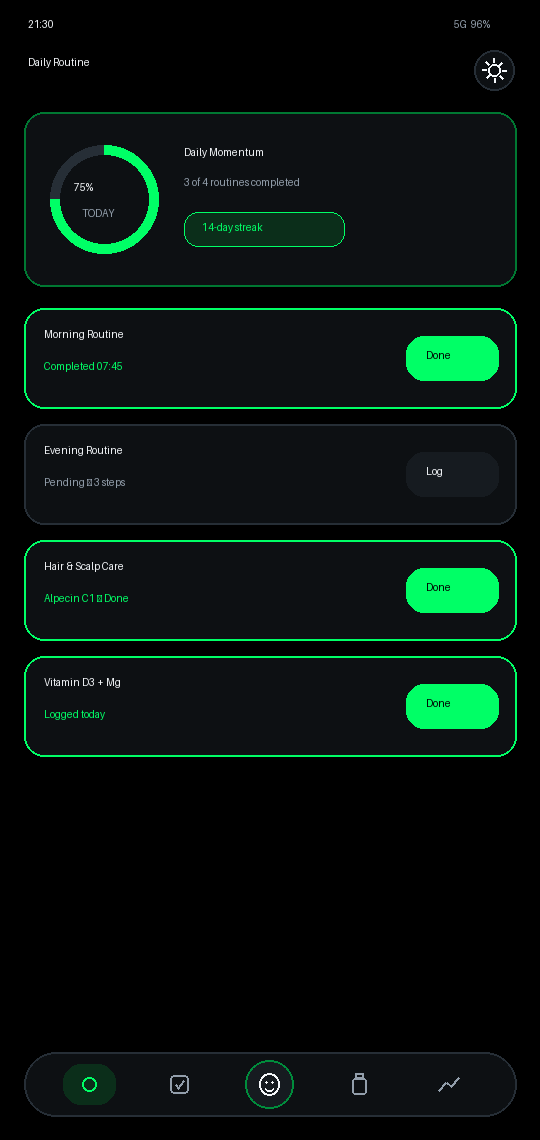
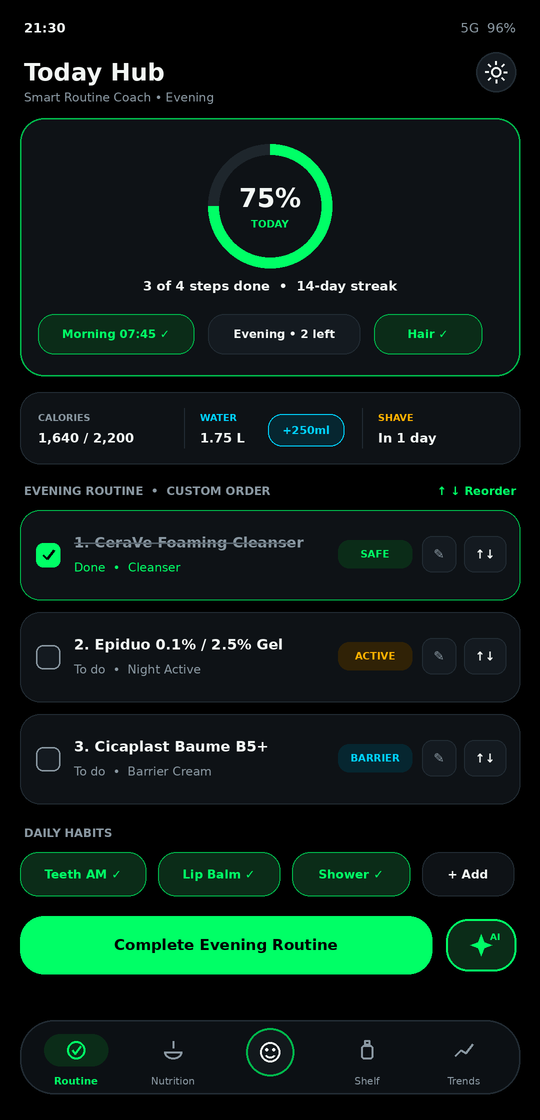
docs: update README and refresh v3.18.1 AMOLED screenshots

diff --git a/README.md b/README.md
@@ -2,15 +2,15 @@
 
 # SelfCare
 
-**Privacy-First Native Android Daily Routine, Offline INCI Analyzer & On-Device Face/Hair Check-In App**  
-*Zero Telemetry • 100% On-Device Computer Vision • Bundled Offline ML Kit • Material 3*
+**Privacy-First Native Android Self-Care Hub: Smart Routine Coach, Nutrition & Hydration, Offline INCI Analyzer & Dual-ONNX On-Device Face/Hair Check-In**  
+*Zero Telemetry • 100% On-Device Computer Vision • 100% In-App CameraX • Material 3 Expressive (120Hz)*
 
 [![Version](https://img.shields.io/badge/Release-v3.18.1-00FF66?style=for-the-badge&logo=github&logoColor=black)](https://github.com/kicsirigo/SelfCare/releases/tag/v3.18.1)
 [![Android](https://img.shields.io/badge/Android-8.0%2B%20(API%2026%E2%80%9336)-3DDC84?style=for-the-badge&logo=android&logoColor=white)](https://developer.android.com/)
 [![Kotlin](https://img.shields.io/badge/Kotlin-2.2-7F52FF?style=for-the-badge&logo=kotlin&logoColor=white)](https://kotlinlang.org/)
 [![Jetpack Compose](https://img.shields.io/badge/Jetpack%20Compose-Material%203-4285F4?style=for-the-badge&logo=jetpackcompose&logoColor=white)](https://developer.android.com/jetpack/compose)
-[![Tests](https://img.shields.io/badge/Tests-104%20Passing-2EA043?style=for-the-badge&logo=checkmarx&logoColor=white)](#testing)
-[![Privacy](https://img.shields.io/badge/Privacy-100%25%20On--Device%20CV-0F172A?style=for-the-badge&logo=shield&logoColor=white)](#privacy--permissions)
+[![Tests](https://img.shields.io/badge/Tests-103%20Passing-2EA043?style=for-the-badge&logo=checkmarx&logoColor=white)](#testing)
+[![Privacy](https://img.shields.io/badge/Privacy-100%25%20Local%20DB-0F172A?style=for-the-badge&logo=shield&logoColor=white)](#privacy--permissions)
 
 </div>
 
@@ -18,7 +18,7 @@
 
 ## Overview
 
-**SelfCare** is a privacy-first native Android application built with **Kotlin**, **Jetpack Compose**, **Material 3**, **Room**, **CameraX**, and **bundled offline ML Kit**. It brings together daily skincare routine tracking, daily hygiene logging, an offline INCI ingredient & active-conflict engine, and 100% on-device face & hair trend analysis — with **zero ads, zero analytics, and zero cloud uploads of personal photos or logs**.
+**SelfCare** is a privacy-first native Android application built with **Kotlin**, **Jetpack Compose**, **Material 3 Expressive (120Hz)**, **Room**, **CameraX**, **bundled offline ML Kit**, and **Dual-ONNX Runtime**. It unifies daily skincare & habit coaching, calorie/macro/water tracking, an offline INCI ingredient & active-conflict engine, a context-aware AI Coach, and 100% on-device face & hair trend analysis — with **zero ads, zero analytics, zero cloud save, and zero uploads of personal check-in photos or logs**.
 
 ---
 
@@ -26,9 +26,9 @@
 
 <div align="center">
 
-| Daily Routine *(AMOLED Neon)* | Shelf & Rx/Hair *(AMOLED Neon)* | Face & Hair Scan *(AMOLED Neon)* | Personal Trends *(AMOLED Neon)* |
-| :---: | :---: | :---: | :---: |
-| <img src="docs/screenshots/01_daily_routine_dark.png" alt="Daily Routine - AMOLED Neon" width="210" /> | <img src="docs/screenshots/02_product_shelf_inci.png" alt="Product Shelf & INCI - AMOLED Neon" width="210" /> | <img src="docs/screenshots/03_face_checkin_amoled.png" alt="Face Check-In - AMOLED Neon" width="210" /> | <img src="docs/screenshots/04_personal_trends_light.png" alt="Personal Trends - AMOLED Neon" width="210" /> |
+| Today Hub & Routine | Nutrition & Water | Face & Hair Check-In | Product Shelf & INCI | Trends & AI Coach |
+| :---: | :---: | :---: | :---: | :---: |
+| <img src="docs/screenshots/01_daily_routine_dark.png" alt="Today Hub & Smart Routine Coach - AMOLED Neon" width="170" /> | <img src="docs/screenshots/05_nutrition_tracker.png" alt="Nutrition, Macros & Animated Water - AMOLED Neon" width="170" /> | <img src="docs/screenshots/03_face_checkin_amoled.png" alt="Dual-ONNX Face & Hair Check-In - AMOLED Neon" width="170" /> | <img src="docs/screenshots/02_product_shelf_inci.png" alt="Product Shelf, INCI & Vitamin Calculator - AMOLED Neon" width="170" /> | <img src="docs/screenshots/04_personal_trends_light.png" alt="Personal Trends & AI Coach - AMOLED Neon" width="170" /> |
 
 </div>
 
@@ -36,69 +36,62 @@
 
 ## Key Features
 
-### Calorie, Macro & Animated Water Tracker (`Nutrition` Tab) + Celebrations
-- **Day Switcher (`< Yesterday | Today >`)** — Browse, log, and edit meals, water intake, and workouts for previous days.
-- **Daily Calorie Ring, Macro Bars & Offline Body Profile** — Tracks Calories (kcal), Protein, Carbs, Fat, Fiber, Sugar, and **Salt (g)** against customizable targets or the built-in 100% offline **Mifflin-St Jeor** auto-calculator (automatically reuses your saved birthday/age).
-- **5 Fast Meal Logging Paths:**
-  - **Meal Photo AI (`Groq Qwen 3.8 27B`):** Snap a photo of a plated meal to estimate calories, macros, and salt with `0.5x / 1x / 1.5x` portion adjustment.
-  - **Nutrition Label Photo Scanner (`Groq Qwen 3.8 27B`):** Scan back-of-package `Tápérték táblázat` (per-100g values) with live gram scaling.
-  - **Groq AI Text Meal Estimation:** Type any Hungarian or English dish (e.g., *csirkepörkölt nokedlivel*, *whopper*) for instant macro & salt estimation.
-  - **OpenFoodFacts Barcode Scanner & Hungarian Search:** Instant per-100g nutrition lookup for packaged foods.
-  - **65+ Offline Hungarian & International Presets + Custom Recipe Builder:** Combine multiple ingredients, divide by servings, and log 1 serving with 1 tap (100% offline).
-- **Exercise & Burned Calories (`MET` Calculator) + Weight Trend:** Log workouts to automatically expand your daily calorie budget, and log body weight to track your 30-day Weight & 7-day Calorie/Protein Trend chart on the `Trends` tab.
-- **Animated Live-Wave Water Glass with Salt Hydration Bonus:** Automatically adds `+150 ml` recommended water per excess gram of salt above the 5g WHO reference, with spring-animated wave physics and twinkling stars.
-- **Zero AI Training Privacy:** Images & text sent to Groq API are never used for AI model training.
+### Today Hub & Smart Routine Coach (`Routine` Tab)
+- **Unified Hero Card & Live Progress Ring** — Centered `HeroScoreRing` updates live in real time whenever any product is checked or unchecked, paired with 3-period status chips (`Morning`, `Evening`, `Hair`), exact `HH:mm` completion timestamps, and an animated streak pill.
+- **Today Pulse Mini-Bar** — Glanceable daily calories, 1-tap `+250 ml` hydration button, and shave countdown right from the home tab.
+- **Smart Skincare Step Ordering + Custom `↑` / `↓` Reorder** — Automatically orders skincare/vitamin steps (Cleanser → Treatment → Moisturizer → SPF) and lets you customize the exact persistent order with 120Hz spring gliding (`animateItem`).
+- **1-Tap Product Nickname / Rename & Live INCI Conflict Guard** — Quickly rename any product inline (pencil icon), check off clear `Done` / `To do` states, and see active ingredient conflicts before applying.
+- **Custom Daily Habits (`+ Add`) & Local Reminders** — Track Teeth, Shower, Lip Balm, and custom habits with automatic midnight rollover and optional `AlarmManager` notifications.
 
-### Daily Routine Tracker
-- **1-Tap Morning, Evening & Hair Care Routine Completion** — Configure your default Morning, Evening, Both, or Hair Care products and log an entire routine in a single tap, with per-product skip/override toggles and duplicate-log prevention.
-- **Quick Daily Hygiene Logging** — Track Shower/Bath, Morning & Evening Teeth Brushing, Lip Balm, and custom habits with automatic midnight date rollover.
-- **Local Routine Reminders** — Optional on-device notifications scheduled via `AlarmManager` / `BroadcastReceiver` (gracefully handled when notification permission is not granted).
-- **Portable SAF JSON Backup** — Export and import all 5 Room tables (`routine_logs`, `products`, `face_check_ins`, `hygiene_logs`, `haircut_baselines`) and app preferences via Android's Storage Access Framework (`kotlinx.serialization.json`).
+### Calorie, Macro & Animated Water Tracker (`Nutrition` Tab)
+- **3 Verified Food Databases + On-Demand Web Search (AI):**
+  - **OpenFoodFacts (3M+ HU & Global)** — Fast barcode & text search with clickable verified source links (`hu.openfoodfacts.org`).
+  - **USDA FoodData Central (400k+ via `DEMO_KEY` + HU→EN bridge)** — Authoritative whole-food & cooked-dish nutrition with verified `fdc.nal.usda.gov` links.
+  - **250+ Offline Hungarian & International Presets + Custom Recipe Builder** — Instant 100% offline meal logging and multi-ingredient per-serving recipes.
+  - **On-Demand `Web Search (AI)` (`openai/gpt-oss-20b` → `120b` with `browser_search`)** — Explicit button in Nutrition Search and Meal Confirmation (`Verify on Web (AI)`) for restaurant or newly released items.
+- **In-App CameraX Meal & Label Scanner (`Groq Vision`)** — Snap plated meals (`0.5x / 1x / 1.5x` portion scaling) or back-of-package `Tápérték táblázat` nutrition labels (`qwen/qwen3.8-27b` primary + `meta-models/muse-spark-open` fallback).
+- **Daily Calorie Ring, Macro Bars, Exercise (`MET`) & Weight Trend** — Tracks Calories, Protein, Carbs, Fat, Fiber, Sugar, and **Salt (g)** against customizable targets or the 100% offline **Mifflin-St Jeor** calculator, with day switching (`< Yesterday | Today >`).
+- **Animated Live-Wave Water Glass with Salt Hydration Bonus** — Automatically adds `+150 ml` recommended water per excess gram of salt above the 5g WHO reference, with spring-animated wave physics.
 
-### Product Shelf, Vitamins/Medications, Offline Vitamin Calculator & INCI Engine
-- **Bundled 69-Ingredient INCI Database** — Offline `assets/inci_database.json` covering hydrators, AHAs/BHAs/PHAs, retinoids, Vitamin C, soothing agents, occlusives, peptides, prescription antibiotics (`Erythromycin`, `Clindamycin`), scalp actives (`Ketoconazole`, `Caffeine`, `Minoxidil`, `Selenium Sulfide`), and **7 active conflict rules** (including *Prescription Antibiotic + Strong Acid/Retinoid*).
-- **Vitamins, Supplements & Medications Support** — Track vitamins (`Vitamin D3`, `Vitamin C`, `Magnesium`, `Omega-3`, `Zinc`, `B-Complex`, `Multivitamin`) and OTC medications/ointments (`Sudocrem`, `Bepanthen Plus`, `Ibuprofen`, `Cetirizine`) alongside skincare, Rx, and hair products, with dedicated filter chips and presets.
-- **100% Offline Age-Based Daily Vitamin Reference Calculator (`VitaminCalculator`)** — Enter your birthday locally (stored strictly on-device) to calculate EFSA/NIH daily vitamin & mineral reference intakes by age, cross-referenced automatically against supplements on your Shelf *(informational only — never replaces a balanced diet or medical advice)*.
-- **Live Barcode Scanner + Groq Vision (`Qwen 3.8 27B`) + Offline INCI OCR + Google Lens Share** — Instant live CameraX EAN/UPC barcode scanning backed by `OpenBeautyFacts` + `OpenFoodFacts`, optional **Groq Vision** (`qwen/qwen3.8-27b` primary + `meta-models/muse-spark-open` fallback with live `/openai/v1/models` discovery, free `gsk_...` key), dedicated 100% offline **INCI OCR** for back-of-bottle ingredient lists, and **Share-to-SelfCare (`ACTION_SEND`) / Google Lens** support. Shows up to **3 multi-source reference photos** (`OpenBeautyFacts` + `OpenFoodFacts` + `Wikimedia Commons`) and privately saves your captured product photo on-device (`filesDir/products/` with `.nomedia`).
-- **Full EN/HU Localized Active Conflict Alerts & Delete Safeguards** — All 7 INCI conflict warnings, routine slots, and caution badges render in English or Hungarian, and every delete action requires confirmation.
-
-### 100% Offline Dual-ONNX Local AI (`YOLOv8s` + `EfficientNet-B0`) + CameraX (`Camera2Interop`) + ML Kit Face, Stubble & Hair Check-In *(Centered Dock Tab)*
+### 100% Offline Dual-ONNX Local AI + ML Kit Face, Stubble & Hair Check-In *(Centered Dock Tab)*
 - **Bundled On-Device Local AI Ensemble (100% Offline, MIT License)** — Runs two INT8-quantized ONNX models in parallel via ONNX Runtime alongside ML Kit FaceMesh & SelfieSegmentation:
   - **`OnnxAcneDetector` (`acne_detector_int8.onnx`, 11.5 MB YOLOv8s INT8):** Detects real blemish lesions (comedones, papules, pustules, nodules) with automatic CIELAB fallback.
   - **`OnnxSkinSignalsAnalyzer` (`skin_signals_int8.onnx`, 5.3 MB 4-Head EfficientNet-B0 INT8):** Predicts global structure, hydration, erythema/UV, and elasticity signals, fused with 1080px local CIELAB ROI metrics (`SkinSignalsHybridFusion`) for lighting resilience.
-  - **Active AI Engine Telemetry UI:** Live camera HUD pill and tappable breakdown strip showing every active on-device engine and exact analysis runtime in ms.
-- **Directional Sobel Stubble Detection & Shave Reminder** — Measures lower-jaw stubble density on-device (`computeStubbleScore` with directional Sobel bristle edge-density + jaw-shadow compensation), tracks days since your last shave with one-tap **"Just Shaved"**, and alerts you when your configurable 1–14 day shave interval or stubble threshold is reached.
-- **Live Face Detection, Brightness HUD, Cooldown & Screen Flash** — Real-time on-device ML Kit FaceMesh checks confirm an actual face is present before turning the framing guide neon green (rejecting covered lenses or empty frames), alongside a live brightness percentage readout, 5-second capture cooldown, and Snapchat-style front screen flash.
-- **Real On-Device Computer Vision Math (`FaceMetricCalculator` + `MlKitFaceAnalyzer`)**:
-  - **Under-Eye Dark Circles:** sRGB-to-CIELAB conversion and $\Delta E / \Delta L^*$ delta between under-eye ROIs and cheek baselines.
-  - **Skin Health:** Erythema/redness index and local spatial texture variance across cheek and forehead ROIs.
-  - **Lip Dryness:** Lip ROI color uniformity and gradient/edge roughness.
-  - **Multi-Zone Hair & Scalp Health (`HairDetailedMetrics` + `HaircutTracker`):** Evaluates **Crown Volume & Density %**, **Hair Shine & Smoothness %**, **Hairline & Temple Symmetry %**, plus **Growth Since Haircut** with **"Just had a haircut"** baseline reset.
-- **Human-Readable Qualitative Gauges (`MetricInterpreter`)** — Translates raw scores into clear status pills (`Optimal`, `Good`, `Moderate`, `High`), animated progress bars, and everyday explanations alongside personal rolling baselines.
-- **Private Check-In Photo Storage** — Photos are saved exclusively inside app-private `filesDir/checkins` (with `.nomedia`), hidden from the device gallery, and can be automatically deleted immediately after numeric metrics are extracted.
+  - **Active AI Engine Telemetry HUD:** Shows every active on-device engine and exact analysis runtime in ms.
+- **Directional Sobel Stubble Detection & Shave Reminder** — Measures lower-jaw stubble density on-device (`computeStubbleScore`), tracks days since your last shave with 1-tap **"Just Shaved"**, and alerts you at your configurable 1–14 day interval.
+- **Live Face Detection, Brightness HUD, Cooldown & Screen Flash** — Real-time ML Kit FaceMesh verification, live brightness percentage readout, 5-second capture cooldown, and front screen flash.
+- **Multi-Zone Face & Hair CV (`FaceMetricCalculator` + `HaircutTracker`)** — Evaluates Under-Eye Dark Circles ($\Delta E / \Delta L^*$), Surface Redness & Texture, Lip Dryness, plus **Crown Density %**, **Hair Shine %**, **Hairline Symmetry %**, and **Growth Since Haircut** with qualitative traffic-light gauges (`MetricInterpreter`).
+- **Private Check-In Photo Storage** — Stored strictly inside app-private `filesDir/checkins` (with `.nomedia`), hidden from the gallery, with optional automatic deletion immediately after metrics are extracted.
 
-### Personal Rolling Trends, AMOLED Neon UI & Smooth Animations
-- **Personal Baseline Trends (Never Medical Diagnoses)** — Displays under-eye, redness, texture, lip dryness, and multi-zone hair metrics relative to your own rolling **7-day and 30-day personal baseline**, alongside routine/hygiene adherence correlation.
-- **AMOLED Pure Black + Cyber Neon Green Default Theme** — Pure `#000000` AMOLED backdrop with `#00FF66` neon green accents (plus Dark & Light modes), unified 24dp monochrome icons in `AppIcons.kt`, and 120Hz `AnimatedContent` / `animateFloatAsState` transitions.
-- **Bilingual Localization (`EN` / `HU`)** — Full English and Hungarian string parity (`241/241` keys, including all INCI active conflict rules and caution badges) with flicker-free in-app **Auto / English / Magyar** switching, 5-tab bottom navigation, and a persistent top-right Settings shortcut.
+### Product Shelf, Vitamins/Medications, Offline Vitamin Calculator & INCI Engine (`Shelf` Tab)
+- **100% In-App CameraX Everywhere** — Live CameraX EAN/UPC barcode scanning (`OpenBeautyFacts` + `OpenFoodFacts`), optional **Groq Vision** product recognition, dedicated 100% offline **In-App CameraX INCI OCR**, on-demand **Web Search (AI)**, and **Share-to-SelfCare (`ACTION_SEND`) / Google Lens** support.
+- **Bundled 69-Ingredient INCI Database** — Offline `assets/inci_database.json` covering hydrators, AHAs/BHAs/PHAs, retinoids, Vitamin C, soothing agents, peptides, prescription antibiotics (`Erythromycin`, `Clindamycin`), scalp actives (`Ketoconazole`, `Caffeine`, `Minoxidil`), and **7 localized active conflict rules**.
+- **Vitamins, Supplements & Medications + Offline EFSA/NIH Calculator (`VitaminCalculator`)** — Tracks vitamins and OTC/Rx items alongside skincare, cross-referenced automatically against age-based daily reference intakes *(informational only — never replaces a balanced diet or medical advice)*.
+
+### Personal Trends, Floating AI Coach, Expressive Motion & Live Quota Monitor
+- **Personal Rolling Trends (`Trends` Tab)** — 7-day and 30-day rolling personal baselines for skin, hair, 30-day body weight, 7-day calorie/protein adherence, and routine consistency *(never medical diagnoses)*.
+- **Context-Aware Floating AI Coach (`AiCoachChatSheet`)** — Accessible from any tab via the floating AI FAB; reads your local routine, shelf, nutrition, and check-in summary on demand, and strictly matches your message language (English or Hungarian).
+- **Live Groq API Quota Monitor & Protected Key Vault (`Settings`)** — Tracks daily `x-ratelimit-*` headers and token usage with estimated remaining photo scans & Web Searches today, plus a locked masked API key field (`gsk_••••••••1234`) with explicit Change & Delete confirmation safeguards.
+- **2026 Material 3 Expressive Motion Pack (120Hz) & AMOLED Neon UI** — Pure `#000000` AMOLED backdrop with `#00FF66` neon green accents (plus Dark & Light modes), morphing navigation pills, GPU `ExpressiveThinkingDots`, unified 24dp vector icons (`AppIcons.kt`, **zero Unicode emojis**), and **494/494** EN/HU bilingual string parity with flicker-free in-app switching.
+- **Portable Local SAF JSON Backup** — 100% local export/import of all **10 Room tables** and app preferences via Android's Storage Access Framework (`kotlinx.serialization.json`).
 
 ---
 
 ## Privacy & Permissions
 
-SelfCare enforces strict on-device isolation with **zero analytics, crash reporting, ads, or tracking SDKs**, and `android:allowBackup="false"`:
-- `android.permission.CAMERA` — Used solely for on-device CameraX guided selfie check-ins, barcode scanning, and label OCR.
-- `android.permission.POST_NOTIFICATIONS` — Used solely for optional local routine and haircut reminders.
-- **Privacy & Zero AI Training:** Face check-in selfies, trends, body profile, and routine logs are 100% offline on-device. Optional product/meal photos and text sent to Groq API (`qwen/qwen3.8-27b`) are **never used for AI model training** (per Groq's official Services Agreement, including on the free tier).
-- `android.permission.INTERNET` — Permitted **only** for anonymous, read-only public lookups to Open Beauty Facts / OpenFoodFacts (`BuildConfig.OPEN_BEAUTY_FACTS_BASE_URL`), GitHub Release updates, and optional user-initiated Groq Vision requests. Face photos, check-in metrics, haircut status, product shelves, and routine logs never leave the device.
+SelfCare enforces strict on-device isolation with **zero analytics, crash reporting, ads, tracking SDKs, or cloud save**, and `android:allowBackup="false"`:
+- `android.permission.CAMERA` — Used solely for in-app CameraX guided selfie check-ins, barcode scanning, meal/label photography, and offline INCI OCR.
+- `android.permission.POST_NOTIFICATIONS` — Used solely for optional local routine, shave, and haircut reminders.
+- **Zero AI Training:** Face check-in selfies, trends, body profile, and routine logs are 100% offline on-device. Optional product/meal photos, chat messages, and web search queries sent to Groq API are **never used for AI model training** (per Groq's official Services Agreement, including on the free tier).
+- `android.permission.INTERNET` — Permitted **only** for anonymous read-only public lookups (`OpenFoodFacts`, `OpenBeautyFacts`, `USDA FoodData Central`), GitHub Release updates, and optional user-initiated Groq Vision / AI Coach / Web Search requests.
 
 ---
 
 ## Download & Verification
 
-Pre-built APKs are available on the [**Releases**](https://github.com/kicsirigo/SelfCare/releases/tag/v3.4.0) page *(APK size includes the bundled offline ML Kit models + ONNX Runtime with INT8 YOLOv8s & EfficientNet-B0 models for 100% offline face, blemish, skin, hair, OCR, and barcode analysis)*:
+Pre-built APKs are available on the [**Releases**](https://github.com/kicsirigo/SelfCare/releases/tag/v3.18.1) page *(APK size includes the bundled offline ML Kit models + ONNX Runtime with INT8 YOLOv8s & EfficientNet-B0 models for 100% offline face, blemish, skin, hair, OCR, and barcode analysis)*:
 
-- **`SelfCare-release.apk`** (~228 MB) — Recommended. R8-minified and resource-shrunk release build, verified with fail-closed SHA-256 in the in-app Download Manager.
+- **`SelfCare-release.apk`** (~228 MB) — Recommended. Signed, R8-minified, and resource-shrunk release build, verified with fail-closed SHA-256 in the in-app Download Manager.
 - **`SelfCare-debug.apk`** (~241 MB) — Unminified debug build for testing and inspection.
 
 ### Verify APK Integrity
@@ -112,40 +105,46 @@ sha256sum -c SHA256SUMS.txt
 ## Tech Stack & Architecture
 
 - **Language & Build:** Kotlin 2.2.21, JVM 21 toolchain, Gradle Version Catalog (`gradle/libs.versions.toml`), KSP
-- **UI:** Jetpack Compose + Material 3 (Edge-to-Edge, `AppIcons` vector system)
-- **Persistence:** Room 2.8.5 (`SelfCareDatabase`), Jetpack DataStore Preferences
-- **Camera & On-Device ML:** CameraX 1.5.3, bundled ML Kit (`face-mesh-detection`, `segmentation-selfie`, `text-recognition`, `barcode-scanning`) behind testable domain interfaces (`FaceAnalyzer`, `OcrScanner`, `BarcodeScanner`)
+- **UI:** Jetpack Compose + Material 3 Expressive (`ExpressiveMotion.kt`, `AppIcons.kt` 24dp vector system, zero Unicode emojis)
+- **Persistence:** Room 2.8.5 (`SelfCareDatabase` v7, 10 tables), Jetpack DataStore Preferences
+- **Camera & On-Device ML:** 100% In-App CameraX 1.5.3 (`Camera2Interop`), bundled ML Kit (`face-mesh-detection`, `segmentation-selfie`, `text-recognition`, `barcode-scanning`), ONNX Runtime INT8 (`YOLOv8s` + `EfficientNet-B0`)
 - **Min / Target SDK:** API 26 (Android 8.0) / API 36 (Android 16)
 
 ```text
 app/src/main/java/com/selfcare/app/
-├── MainActivity.kt                          # Edge-to-edge host, SAF backup, locale & navigation
+├── MainActivity.kt                          # Edge-to-edge host, 5-tab Expressive dock, AI Coach FAB & SAF backup
 ├── SelfCareApp.kt                           # Application entry point & replaceable test container
-├── di/AppContainer.kt                       # Manual DI container for repos, ML scanners & CV
+├── di/AppContainer.kt                       # Manual DI container for repos, ML/ONNX scanners, remote clients & CV
 ├── data/
 │   ├── local/
-│   │   ├── SelfCareDatabase.kt              # Room database (5 tables)
-│   │   ├── SettingsRepository.kt            # DataStore preferences (theme, language, reminders, privacy)
-│   │   ├── dao/                             # RoutineDao, ProductDao, FaceCheckInDao, HygieneDao, HaircutBaselineDao
-│   │   └── entity/                          # RoutineLogEntity, ProductEntity, FaceCheckInEntity, HygieneLogEntity, HaircutBaselineEntity
-│   ├── ml/                                  # MlKitFaceAnalyzer, MlKitOcrScanner, MlKitBarcodeScanner, TaskAwait
-│   ├── remote/OpenBeautyFactsClient.kt      # Anonymous read-only GET client (OkHttp)
-│   └── repository/                          # RoutineRepository, HygieneRepository, ProductRepository, FaceCheckInRepository, BackupRepository
+│   │   ├── SelfCareDatabase.kt              # Room database (v7, 10 tables)
+│   │   ├── SettingsRepository.kt            # DataStore preferences (theme, locale, routine order, Groq quota)
+│   │   ├── SecretKeyCipher.kt               # Android Keystore AES-GCM encryption for local API key
+│   │   ├── dao/                             # Routine, Product, FaceCheckIn, Hygiene, Haircut, Nutrition, Water, Recipe, Activity, Weight DAOs
+│   │   └── entity/                          # 10 Room entities
+│   ├── ml/                                  # MlKitFaceAnalyzer, MlKitOcrScanner, MlKitBarcodeScanner, OnnxAcneDetector, OnnxSkinSignalsAnalyzer
+│   ├── preset/PresetProductCatalog.kt       # Offline Rx, skincare, hair & vitamin presets
+│   ├── remote/                              # GroqVisionProductClient, OpenFoodFactsNutritionClient, UsdaFoodDataClient, OpenBeautyFactsClient, AppUpdateManager
+│   └── repository/                          # Routine, Hygiene, Nutrition, Product, FaceCheckIn, Backup repositories
 ├── domain/
-│   ├── cv/                                  # LightingQualityChecker, FaceMetricCalculator, HaircutTracker
-│   ├── inci/                                # InciDatabaseLoader, InciParser, InciConflictDetector, InciEngine
+│   ├── ai/AppDataContextBuilder.kt          # Structured local summary builder for AI Coach
+│   ├── cv/                                  # FaceMetricCalculator, LightingQualityChecker, HaircutTracker, MetricInterpreter, SkinSignalsHybridFusion, YoloBlemishPostProcessor
+│   ├── health/                              # MacroCalculator, ActivityCalorieCalculator, FoodPresetCatalog (250+ HU/Intl), MealDatabaseGrounder, MealTimingAnalyzer, StreakCalculator, VitaminCalculator
+│   ├── inci/                                # InciDatabaseLoader, InciParser, InciConflictDetector, InciEngine, SharedProductTextParser
 │   └── ml/                                  # FaceAnalyzer, OcrScanner, BarcodeScanner interfaces
 ├── notifications/                           # NotificationHelper, ReminderReceiver, ReminderScheduler
 └── ui/
+    ├── components/                          # ExpressiveMotion, MetricGaugeComponents, CelebrationAnimations
     ├── icons/AppIcons.kt                    # Centralized 24dp monochrome vector icons
-    ├── localization/LocaleHelper.kt         # In-app Auto / EN / HU locale helper
-    ├── theme/                               # Light, Dark & AMOLED Black Material 3 themes
-    ├── routine/                             # RoutineScreen & RoutineViewModel
-    ├── hygiene/                             # HygieneScreen & HygieneViewModel
-    ├── shelf/                               # ShelfScreen & ShelfViewModel
+    ├── localization/LocaleHelper.kt         # In-app Auto / EN / HU locale helper (494/494 keys)
+    ├── theme/                               # AMOLED Neon, Dark & Light Material 3 themes
+    ├── routine/                             # RoutineScreen (Today Hub) & RoutineViewModel
+    ├── nutrition/                           # NutritionScreen, NutritionViewModel & InAppFoodCameraDialog
     ├── checkin/                             # CheckInScreen & CheckInViewModel
+    ├── shelf/                               # ShelfScreen, ShelfViewModel, ProductLiveScannerView & SmartScanQueryExtractor
     ├── trends/                              # TrendsScreen & TrendsViewModel
-    └── settings/                            # SettingsScreen & SettingsViewModel
+    ├── coach/                               # AiCoachChatSheet & AiCoachViewModel
+    └── settings/                            # SettingsScreen, SettingsViewModel & PatchNotesDialog
 ```
 
 ---
@@ -168,8 +167,11 @@ cp .env.example .env
 # Compile debug Kotlin sources
 ./gradlew compileDebugKotlin
 
-# Run all 58 unit & Robolectric E2E tests
+# Run all 103 unit & Robolectric E2E tests
 ./gradlew testDebugUnitTest
+
+# Run fast unit tests only
+./gradlew testDebugUnitTest --tests "com.selfcare.app.unit.*"
 
 # Build Debug APK
 ./gradlew assembleDebug
@@ -179,17 +181,17 @@ cp .env.example .env
 
 ## Testing
 
-The test suite includes **58 automated tests** across **15 test suites** (`app/src/test/java/com/selfcare/app/`):
-- **Unit Suites (41 tests):**
-  - `RoutineRepositoryTest` (1-tap completion, skip overrides, midnight rollover, duplicate prevention)
-  - `BackupRepositoryTest` (full JSON export/import roundtrip across all 5 Room tables & settings)
-  - `InciEngineTest`, `OpenBeautyFactsTest`, `PresetCatalogAndMetricInterpreterTest`, `SmartScanTest` & `GeminiVisionProductClientTest` (noisy OCR parsing, 69-ingredient matching, active conflict detection, Davercin/Skinoren/Nizoral offline presets, Gemini Vision JSON parsing & normalization, 1-photo smart query extraction & temp-photo deletion, qualitative gauges & multi-zone hair analysis)
-  - `FaceMetricCalculatorTest`, `LightingQualityTest`, `HaircutTrackerTest`, `FaceCheckInRepositoryTest` (CIELAB D65 conversion, redness/texture/lip/hair math, lighting thresholds, baseline reset & private photo auto-delete)
-- **Robolectric + Compose UI E2E Suites (17 tests, injecting deterministic `FaceAnalyzer` / `OcrScanner` / `BarcodeScanner` fakes):**
-  - `Tier1FeatureCoverageTest` — Core routine, OBF + OCR + INCI, face check-in, and haircut flows
+The test suite includes **103 automated tests** across **21 test suites** (`app/src/test/java/com/selfcare/app/`):
+- **Unit Suites (17 suites):**
+  - `RoutineRepositoryTest`, `BackupRepositoryTest` (1-tap completion, skip/reorder persistence, midnight rollover, 10-table SAF JSON roundtrip)
+  - `MacroCalculatorAndNutritionTest`, `VitaminCalculatorAndProductAdviceTest` (Mifflin-St Jeor, salt hydration bonus, MET workouts, 250+ HU presets, EFSA/NIH vitamin calculator)
+  - `GroqVisionProductClientTest`, `OpenBeautyFactsTest`, `InciEngineTest`, `SmartScanTest`, `SharedProductTextParserTest`, `PresetCatalogAndMetricInterpreterTest` (Groq Vision & `gpt-oss` Web Search JSON/reasoning parsing, language detection, 69-INCI conflicts, barcode & OCR extraction)
+  - `FaceMetricCalculatorTest`, `LightingQualityTest`, `HaircutTrackerTest`, `FaceCheckInRepositoryTest`, `SkinSignalsHybridFusionTest`, `BlemishAndUpdateManagerTest`, `YoloBlemishAndPatchNotesTest` (CIELAB D65 math, Dual-ONNX post-processing & fusion, stubble Sobel score, fail-closed SHA-256 update verification)
+- **Robolectric + Compose UI E2E Suites (4 suites, injecting deterministic ML fakes):**
+  - `Tier1FeatureCoverageTest` — Core routine, nutrition, OBF + OCR + INCI, face check-in, and haircut flows
   - `Tier2BoundaryCornerTest` — Empty states, missing camera permission, poor lighting warning, offline API fallback, midnight rollover, duplicate logs, auto-delete verification
-  - `Tier3PersistenceAndLocalizationTest` — Room 5-entity persistence, SAF JSON roundtrip, privacy/`.gitignore`/manifest checks, launcher icon & flicker-free locale checks, and EN/HU 241-key parity + zero-emoji verification
-  - `Tier4UserJourneyTest` — Full cross-screen skincare -> routine -> hygiene -> check-in -> personal trends journey
+  - `Tier3PersistenceAndLocalizationTest` — Room 10-entity persistence, SAF JSON roundtrip, privacy/`.gitignore`/manifest checks, launcher icon & flicker-free locale checks, and **494/494** EN/HU parity + zero-emoji verification
+  - `Tier4UserJourneyTest` — Full cross-screen skincare → routine → nutrition → check-in → personal trends journey
 
 ---
 
